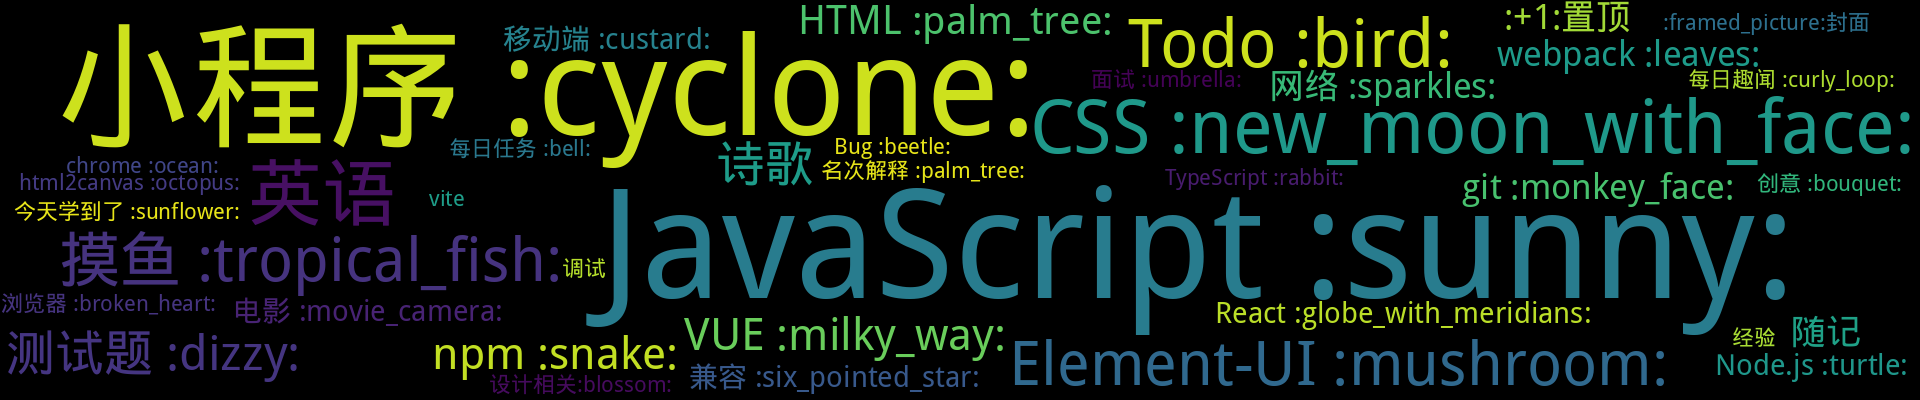
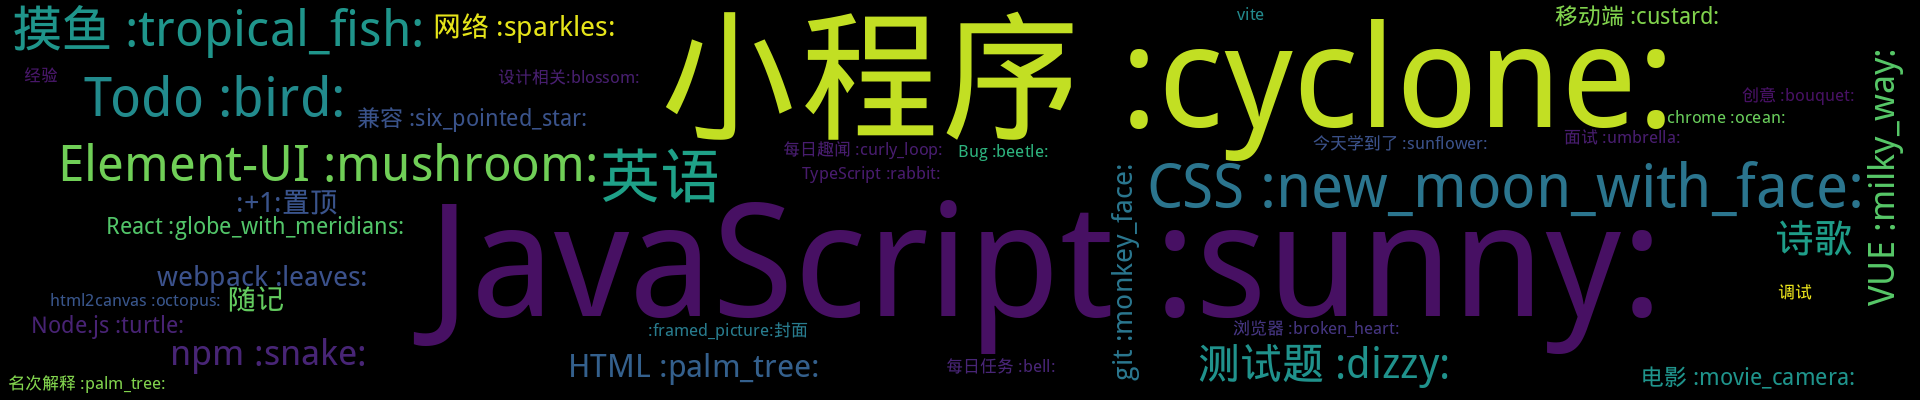
Update from Github Action

diff --git a/README.md b/README.md
@@ -3,7 +3,7 @@
 <p align='center'>
     <img src="https://badgen.net/badge/labels/42"/>
     <img src="https://badgen.net/github/issues/smileyby/ghiblog"/>
-    <img src="https://badgen.net/badge/last-commit/2021-11-04 09:10:56"/>
+    <img src="https://badgen.net/badge/last-commit/2021-11-04 09:42:28"/>
     <img src="https://badgen.net/github/forks/smileyby/ghiblog"/>
     <img src="https://badgen.net/github/stars/smileyby/ghiblog"/>
     <img src="https://badgen.net/github/watchers/smileyby/ghiblog"/>
@@ -35,6 +35,18 @@
 - [你想住在中国哪里？（转自阮一峰周刊第180期）](https://github.com/smileyby/notes/issues/167)  <sup>0 :speech_balloon:</sup>  	 
 - [掘金小册：小程序底层框架实现原理-笔记](https://github.com/smileyby/notes/issues/165)  <sup>0 :speech_balloon:</sup>  	 
 ## 最新 :new: 
+
+#### [测试题：作用域](https://github.com/smileyby/notes/issues/180) <sup>0 :speech_balloon:</sup> 	 2021-11-04 09:42:02
+
+:label: : [测试题 :dizzy:](https://github.com/smileyby/ghiblog/labels/%E6%B5%8B%E8%AF%95%E9%A2%98%20%3Adizzy%3A)
+
+![image](https://user-images.githubusercontent.com/16968442/140291804-532714c3-87d3-4c00-97f1-0df9a3e3f092.png)
+
+
+[更多>>>](https://github.com/smileyby/notes/issues/180)
+
+---
+
 
 #### [useEffect  useState useMemo  作用](https://github.com/smileyby/notes/issues/179) <sup>0 :speech_balloon:</sup> 	 2021-11-04 09:10:28
 
@@ -79,24 +91,6 @@
 
 
 [更多>>>](https://github.com/smileyby/notes/issues/176)
-
----
-
-
-#### [读书是为了什么？](https://github.com/smileyby/notes/issues/175) <sup>0 :speech_balloon:</sup> 	 2021-11-03 10:10:03
-
-:label: : [:+1:置顶](https://github.com/smileyby/ghiblog/labels/%3A%2B1%3A%E7%BD%AE%E9%A1%B6), [随记](https://github.com/smileyby/ghiblog/labels/%E9%9A%8F%E8%AE%B0)
-
-读书是为什么？
-===========
-
-今天不写技术文章，来思考下问什么要读书。
-
-为什么那么多人推荐阅读，引用陈平原的一句话：
-
-> 如果你半夜醒来发现自己已经好长时间没读书，而且没有任何负罪感的时候，你就必须知道，你已经堕落了。不是说书本本身特了不起，而是读书这个行为意味着你没有
-
-[更多>>>](https://github.com/smileyby/notes/issues/175)
 
 ---
 
@@ -450,8 +444,9 @@
 </details>
 
 <details>
-<summary>测试题 :dizzy:	<sup>6:newspaper:</sup></summary>
+<summary>测试题 :dizzy:	<sup>7:newspaper:</sup></summary>
 
+- [测试题：作用域](https://github.com/smileyby/notes/issues/180)  <sup>0 :speech_balloon:</sup>  	 
 - [测试题：Promise](https://github.com/smileyby/notes/issues/151)  <sup>3 :speech_balloon:</sup>  	 
 - [测试题：Promise相关](https://github.com/smileyby/notes/issues/150)  <sup>3 :speech_balloon:</sup>  	 
 - [函数形参是按值传递](https://github.com/smileyby/notes/issues/110)  <sup>0 :speech_balloon:</sup>  	 
